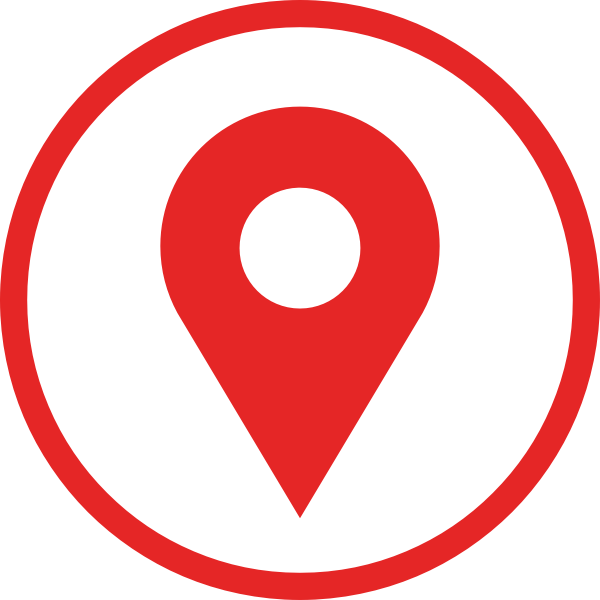
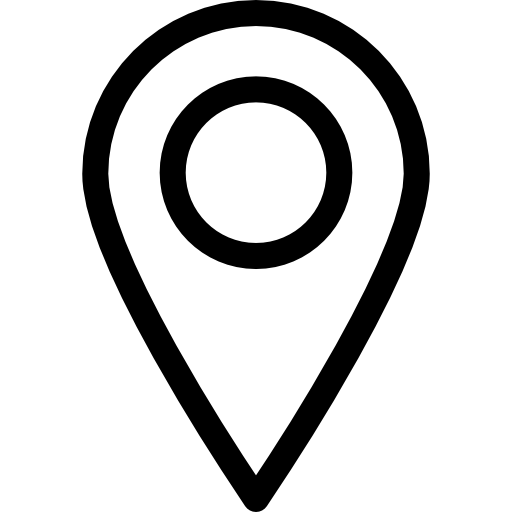
Align road accident hotspot section and add distribution & kernel maps

diff --git a/portfolio.html b/portfolio.html
@@ -156,6 +156,25 @@
           <p>
             The Land Surface Temperature (LST) map of Kisumu City reveals that the central business district and densely built-up areas exhibit temperatures exceeding 35°C, with some hotspots reaching up to 37–38°C, while peripheral areas with more vegetation and water bodies register lower temperatures of 28–30°C. This spatial variation illustrates the Urban Heat Island (UHI) effect, where impervious surfaces, reduced vegetation cover, and high building density increase heat retention. The temperature difference of 7–10°C between urban cores and surrounding green or water-rich areas underscores the need for targeted urban planning interventions, including green infrastructure, urban tree planting, and reflective materials, to mitigate localized heat stress and improve urban thermal comfort.</p>
         </div>
+      </div><!-- ROAD ACCIDENT HOTSPOT ANALYSIS -->
+      <div class="gis-project">
+        <span class="gis-number">4</span>
+        <div class="gis-content">
+          <h3>Road Accident Hotspot Analysis</h3>
+
+          <p>
+            This section presents a Road Accident Hotspot Analysis, focusing on the spatial distribution and concentration of traffic accidents within the study area. The analysis is intended to support road safety planning by identifying high-risk locations that require targeted interventions.
+          </p>
+
+          <img src="images/distribution.png" alt="Road Accident Distribution Map">
+
+          <p>
+            The accident distribution map illustrates the spatial pattern of recorded road traffic accidents across the study area. Accidents are notably concentrated along major highways, busy intersections, and densely built-up urban corridors, indicating a strong relationship between traffic volume, road infrastructure, and accident occurrence.
+          </p>
+
+          <img src="images/kernel.png" alt="Road Accident Hotspot Map (Kernel Density)">
+        </div>
+      </div>
       </div>
     </div>
 <!-- LOAD MORE BUTTON -->